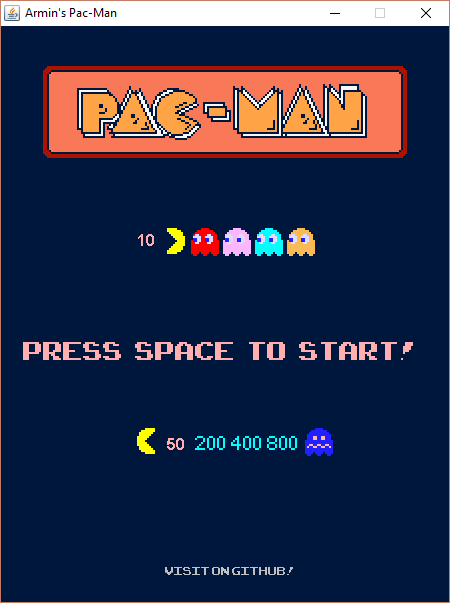
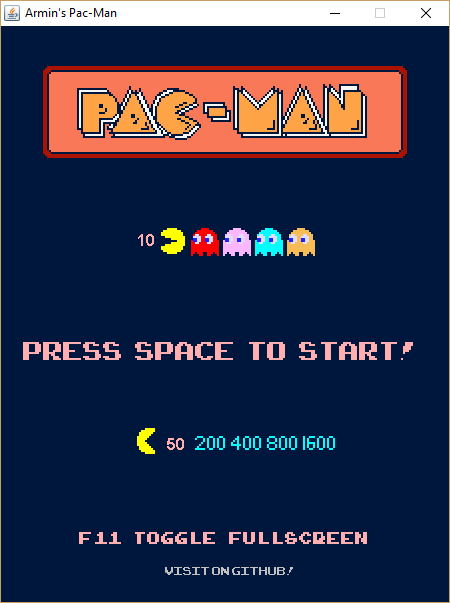
intro

diff --git a/src/de/amr/games/pacman/view/intro/IntroView.java b/src/de/amr/games/pacman/view/intro/IntroView.java
@@ -36,6 +36,7 @@ public class IntroView extends StateMachine<Integer, Void> implements View, Cont
 	private final Set<View> animations = new HashSet<>();
 	private final ScrollableImage logo;
 	private final BlinkingText pressSpace;
+	private final BlinkingText f11Hint;
 	private final ChasePacManAnimation chasePacMan;
 	private final ChaseGhostsAnimation chaseGhosts;
 	private final GhostPointsAnimation ghostPoints;
@@ -64,6 +65,11 @@ public class IntroView extends StateMachine<Integer, Void> implements View, Cont
 				.font(THEME.fnt_text(18)).background(background).color(Color.PINK).build();
 		pressSpace.tf.setY(150);
 		pressSpace.tf.centerX(width);
+		f11Hint = BlinkingText.create().text("F11 Toggle Fullscreen").spaceExpansion(3)
+				.blinkTimeMillis(Integer.MAX_VALUE)
+				.font(THEME.fnt_text(12)).background(background).color(Color.PINK).build();
+		f11Hint.tf.setY(height - 40);
+		f11Hint.tf.centerX(width);
 		visitGitHub = Link.create().text(GITHUB_TEXT).url(GITHUB_URL).font(THEME.fnt_text(8))
 				.color(Color.LIGHT_GRAY).build();
 		visitGitHub.tf.setY(height - 20);
@@ -114,7 +120,7 @@ public class IntroView extends StateMachine<Integer, Void> implements View, Cont
 					// Show ghost points animation and blinking text
 					.timeoutAfter(() -> app().clock.sec(6))
 					.onEntry(() -> {
-						show(ghostPoints, pressSpace, visitGitHub);
+						show(ghostPoints, pressSpace, f11Hint, visitGitHub);
 						ghostPoints.start();
 					})
 					.onExit(() -> {
